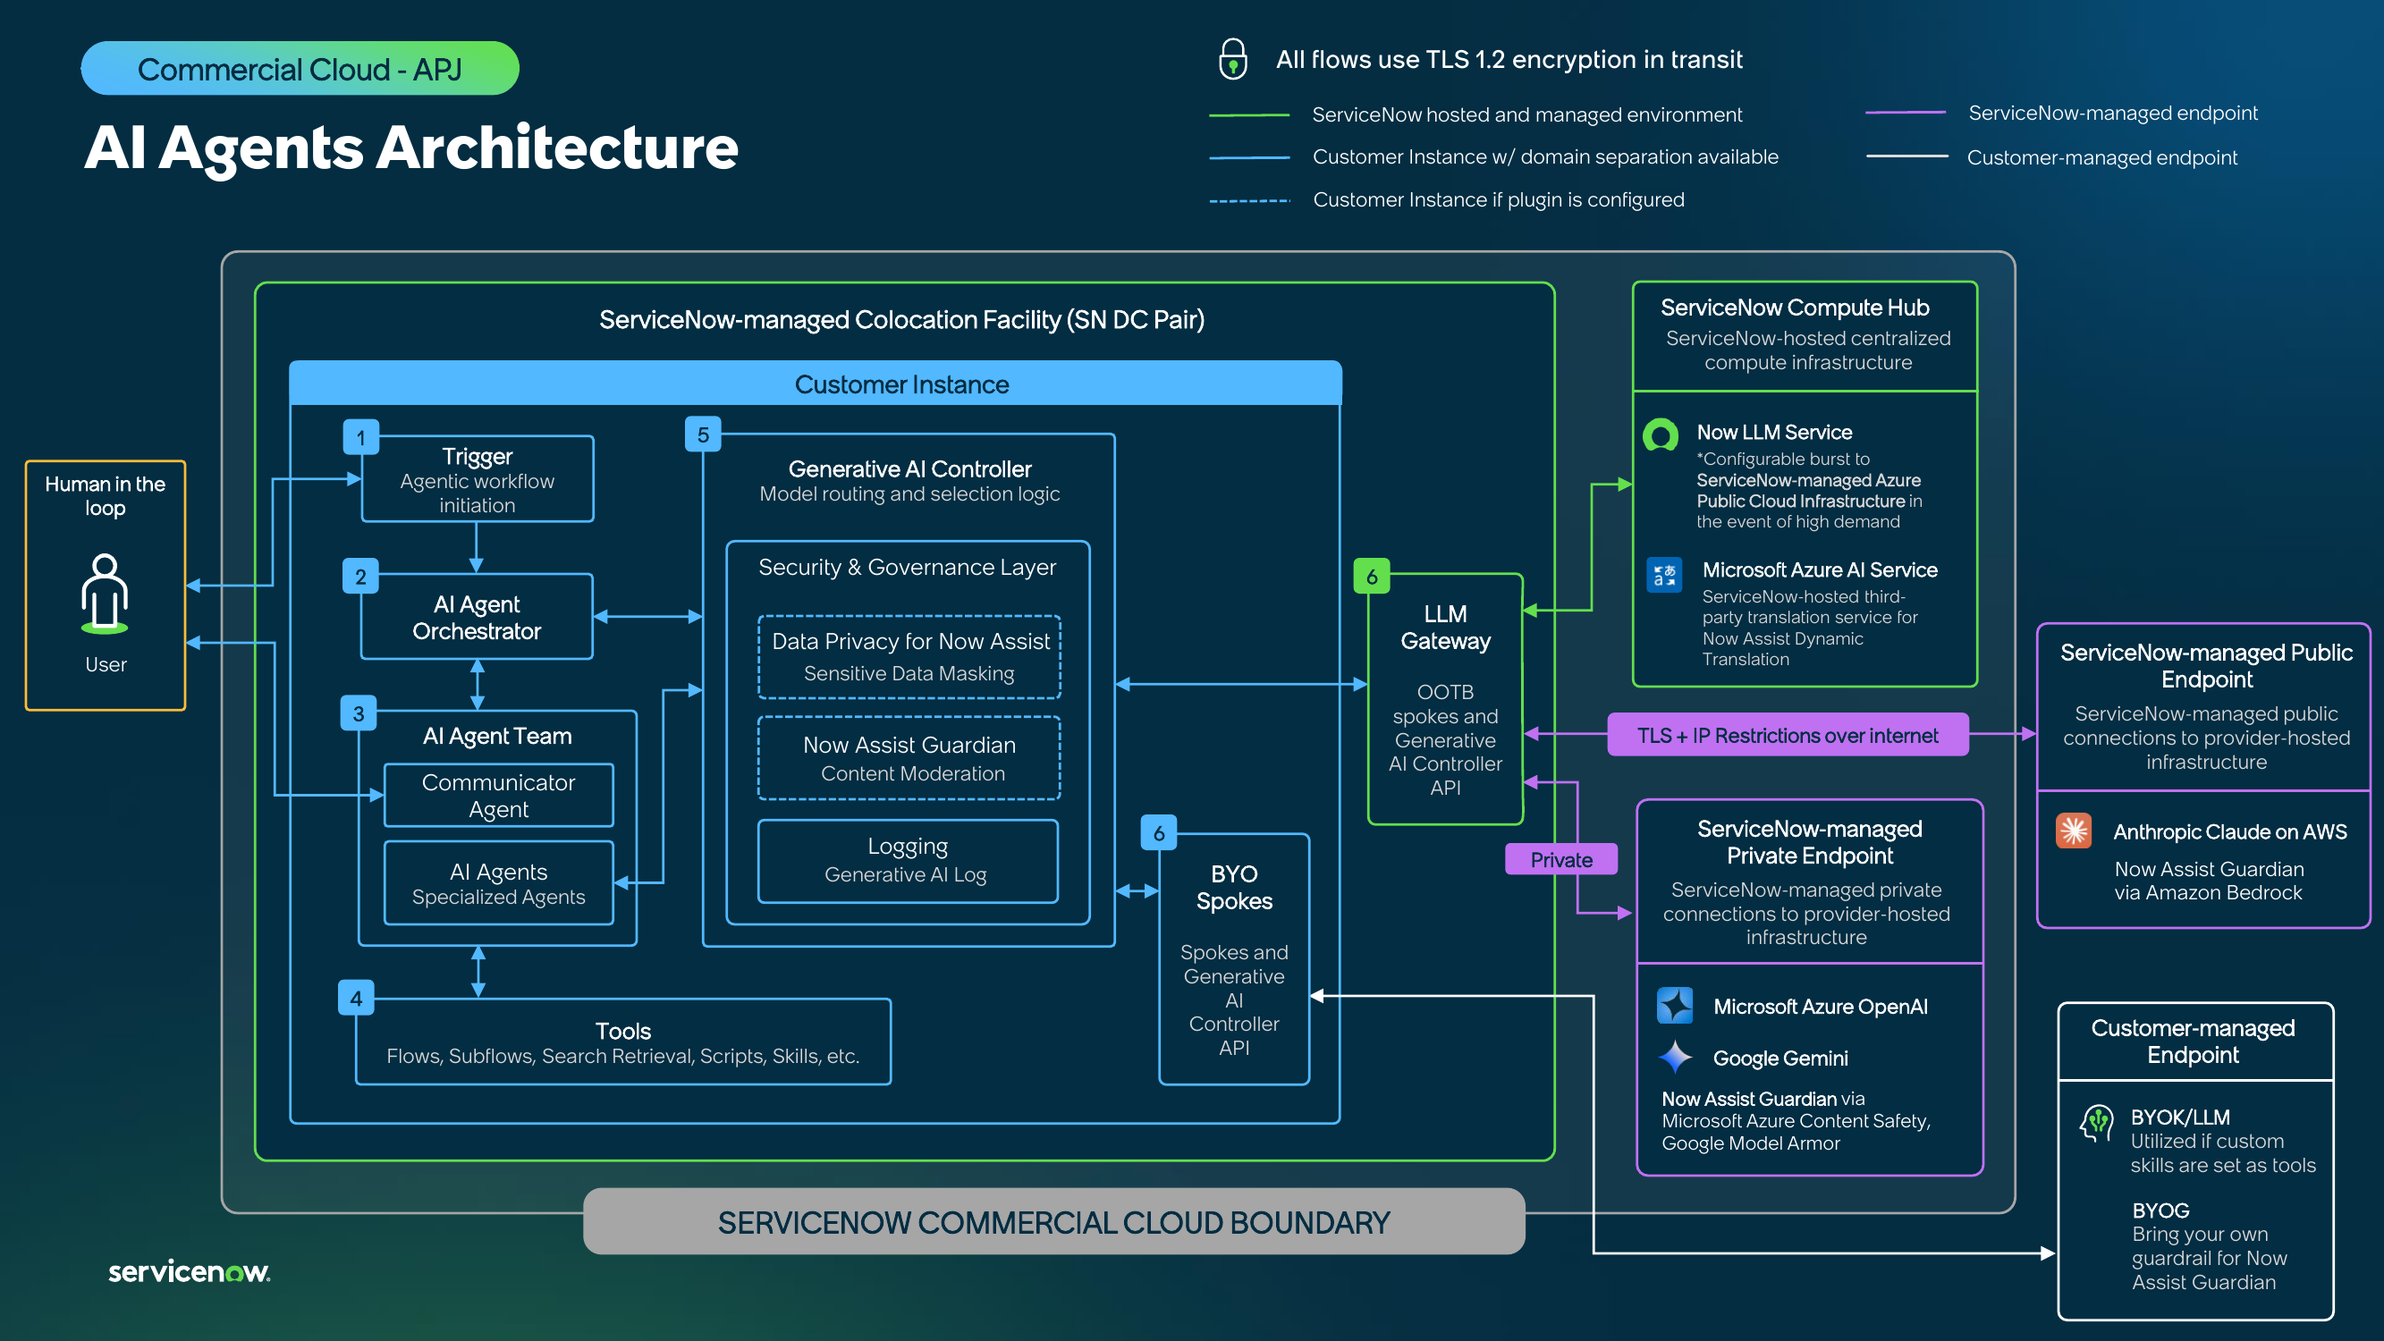
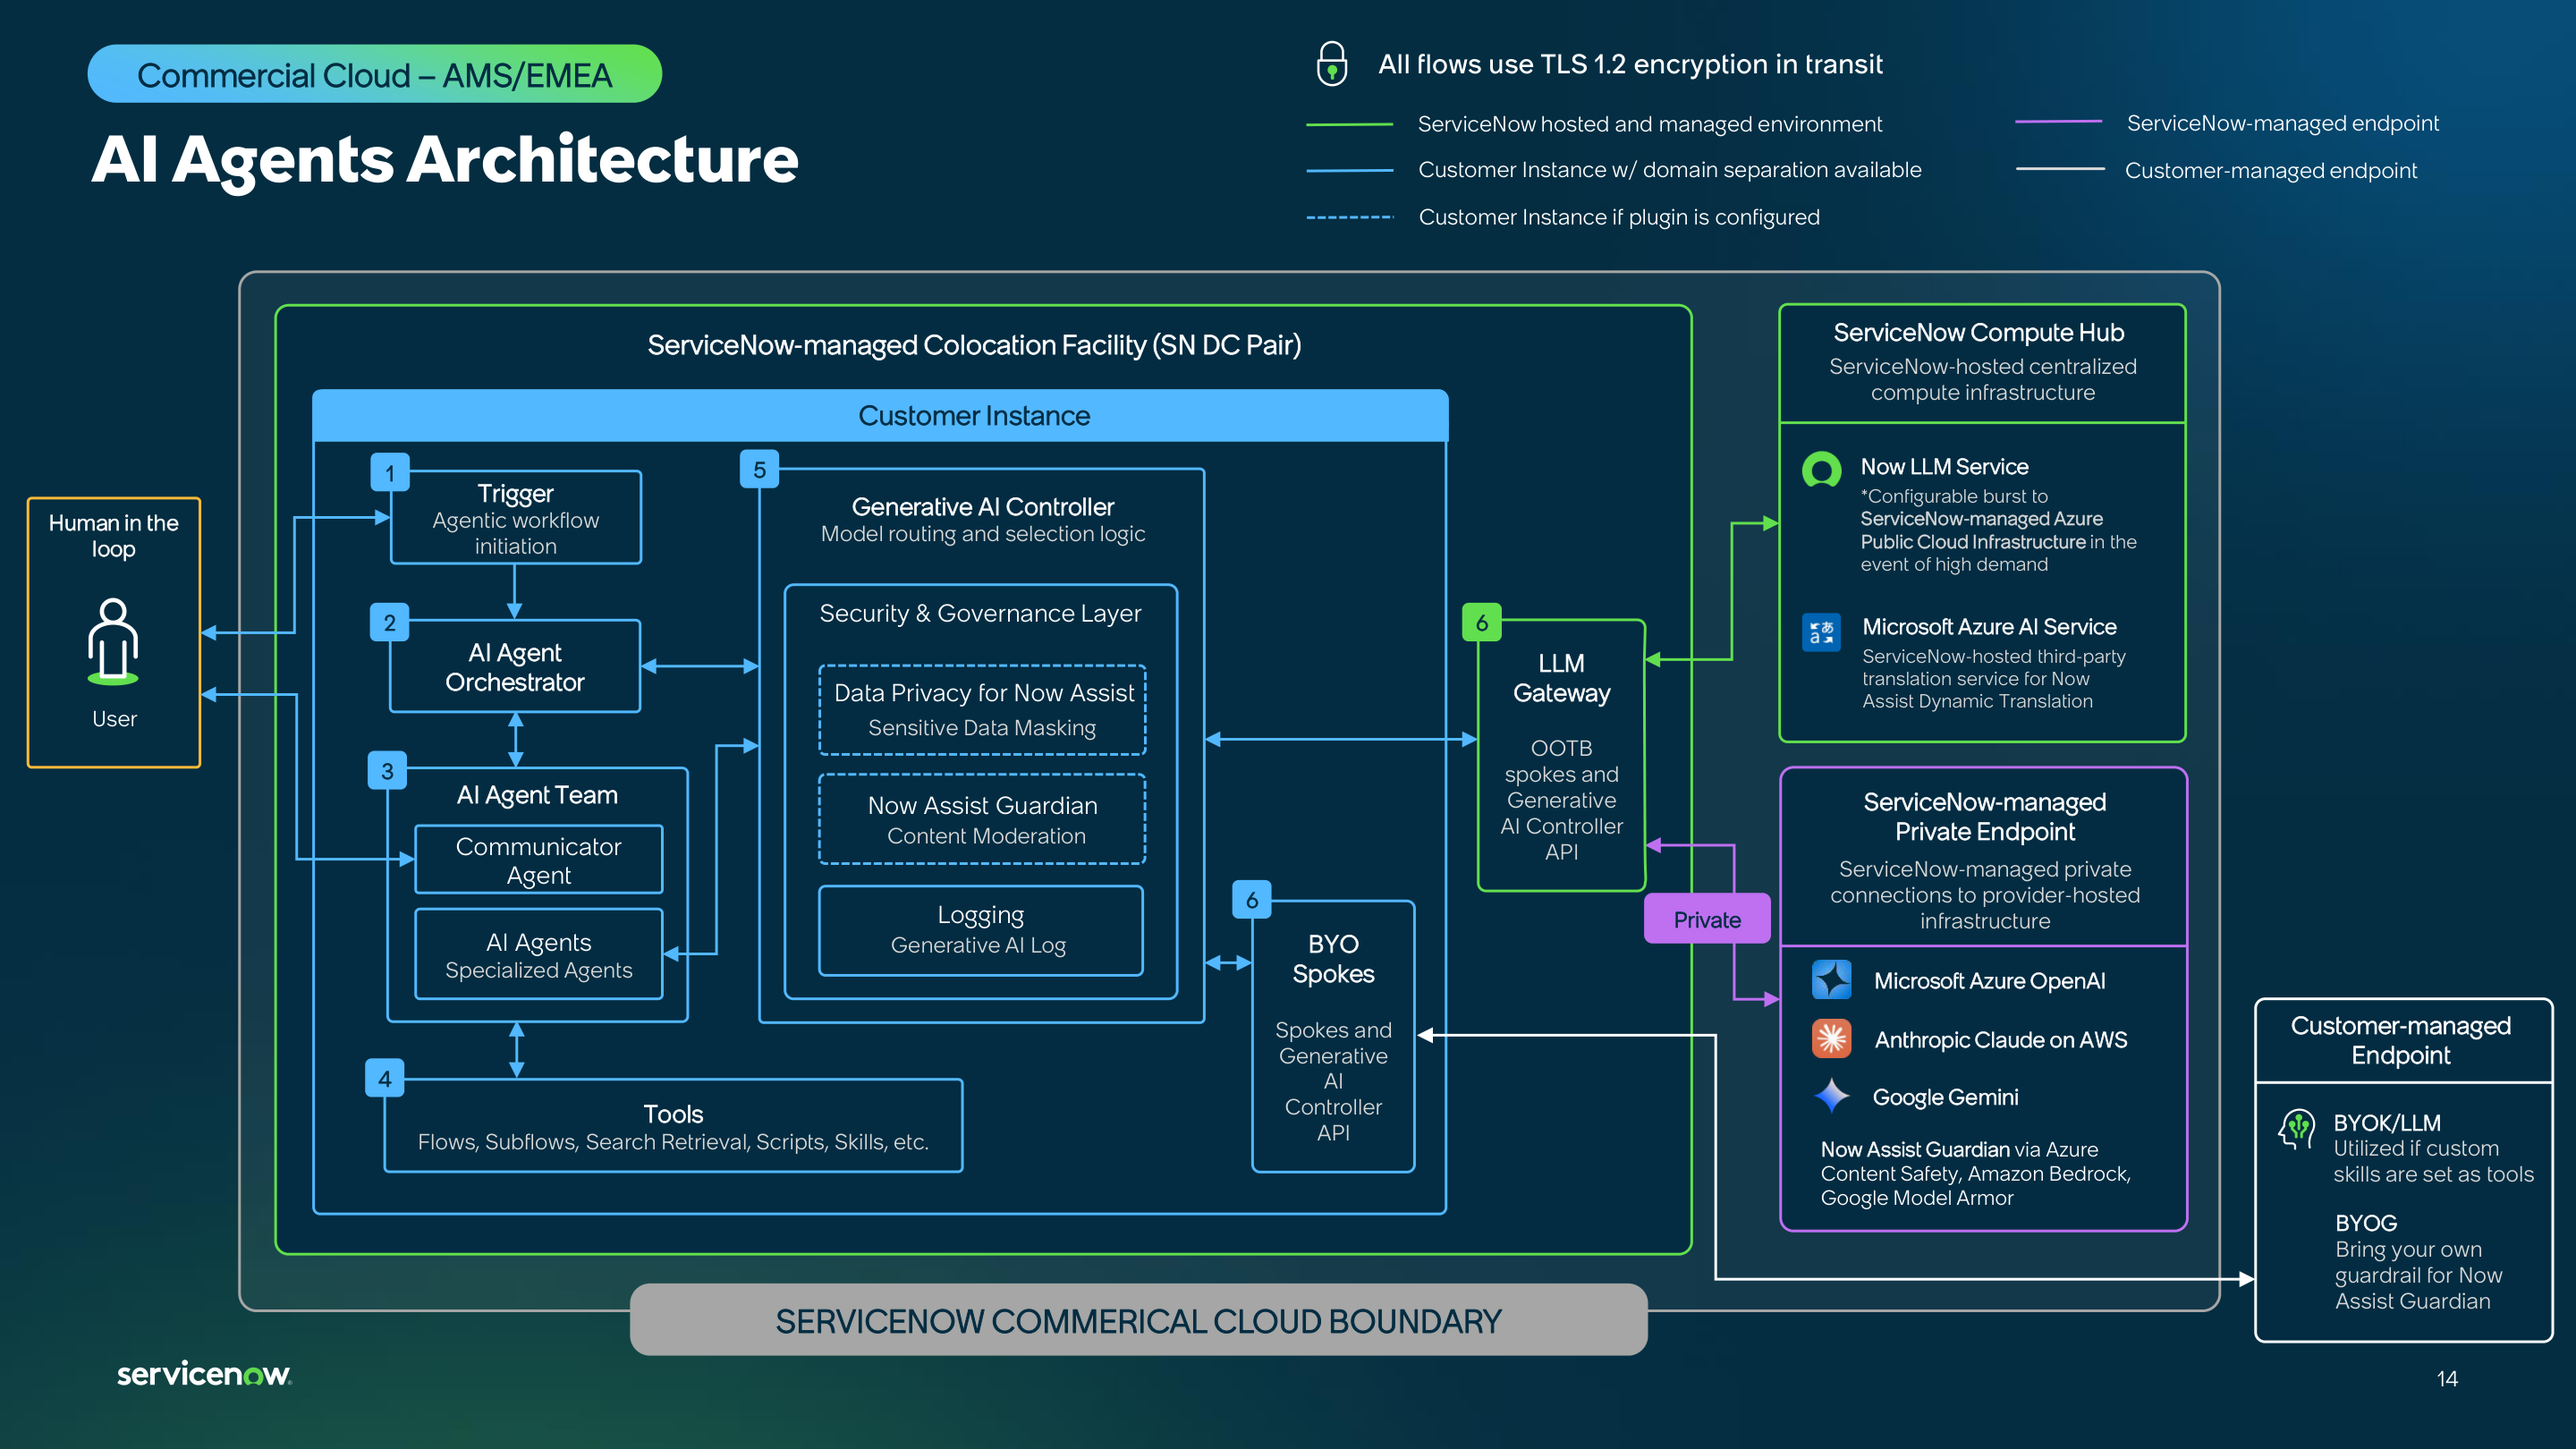
Update architecture diagram to Q1 2026 slide 13, improve modal UX
- Replace architecture PNG with correct slide from Q1 2026 deck
- Add pulsing border and "click to view" hint on architecture card
- Enlarge popup modal (960px → 1400px max-width, 95vh height)

diff --git a/index.html b/index.html
@@ -546,6 +546,18 @@
     .trust-pillar:hover {
       box-shadow: 0 4px 24px rgba(0,0,0,0.25);
     }
+    .arch-trigger {
+      animation: archPulse 2.5s ease-in-out infinite;
+    }
+    .arch-trigger:hover {
+      animation: none;
+      border-color: rgba(79,195,247,0.6) !important;
+      box-shadow: 0 4px 24px rgba(79,195,247,0.2);
+    }
+    @keyframes archPulse {
+      0%, 100% { border-color: rgba(79,195,247,0.25); }
+      50% { border-color: rgba(79,195,247,0.55); box-shadow: 0 0 12px rgba(79,195,247,0.12); }
+    }
     .trust-pillar-head {
       padding: 16px 18px 14px;
       display: flex;
@@ -1037,8 +1049,8 @@
       background: linear-gradient(165deg, #021e2e 0%, #01192a 100%);
       border: 1px solid var(--border2);
       border-radius: 18px;
-      width: 94%; max-width: 960px;
-      max-height: 90vh;
+      width: 96%; max-width: 1400px;
+      max-height: 95vh;
       overflow-y: auto;
       box-shadow: 0 40px 120px rgba(0,0,0,0.7);
       transform: translateY(20px) scale(0.97);
@@ -2726,14 +2738,15 @@
         </div>
 
         <!-- ARCHITECTURE -->
-        <div class="trust-pillar" onclick="openArchModal()" style="background:rgba(79,195,247,0.03)">
+        <div class="trust-pillar arch-trigger" onclick="openArchModal()" style="background:rgba(79,195,247,0.03);border:1px solid rgba(79,195,247,0.25)">
           <div class="trust-pillar-head">
             <div class="trust-pillar-icon" style="background:rgba(79,195,247,0.1);border:1px solid rgba(79,195,247,0.25);color:var(--blue)">&#9881;</div>
             <div class="trust-pillar-head-text">
               <div class="trust-pillar-label" style="color:var(--blue)">Architecture</div>
               <div class="trust-pillar-thesis">All data stays within ServiceNow&rsquo;s platform boundary. Private endpoints, regional processing, no customer tenant routing.</div>
+              <div style="margin-top:6px;font-size:10px;color:var(--blue);opacity:0.8;font-weight:600;letter-spacing:0.5px">&#128269; Click to view full architecture diagram</div>
             </div>
-            <div class="trust-pillar-chevron" style="transform:none">&#8599;</div>
+            <div class="trust-pillar-chevron" style="transform:none;font-size:18px">&#8599;</div>
           </div>
         </div>
 
